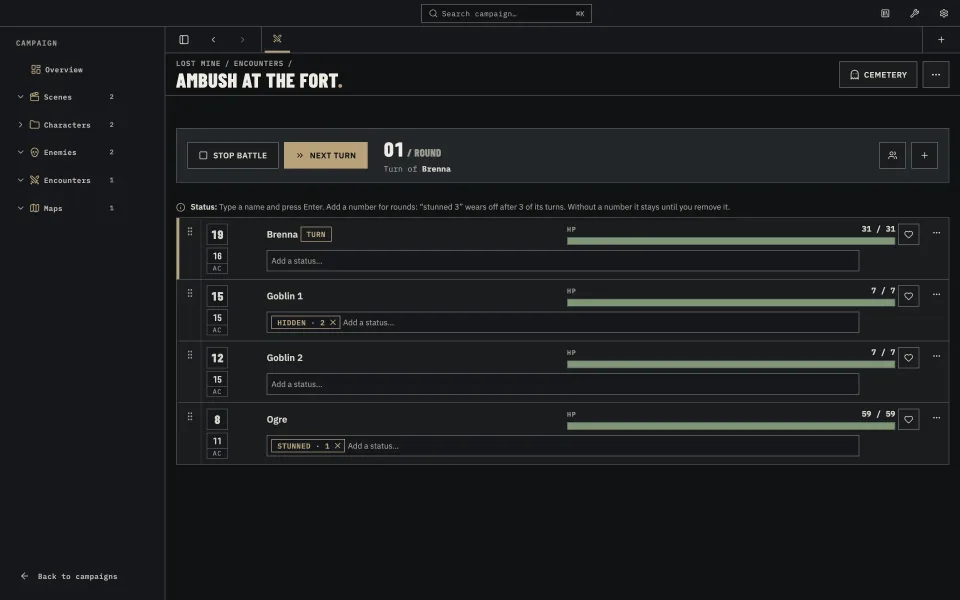
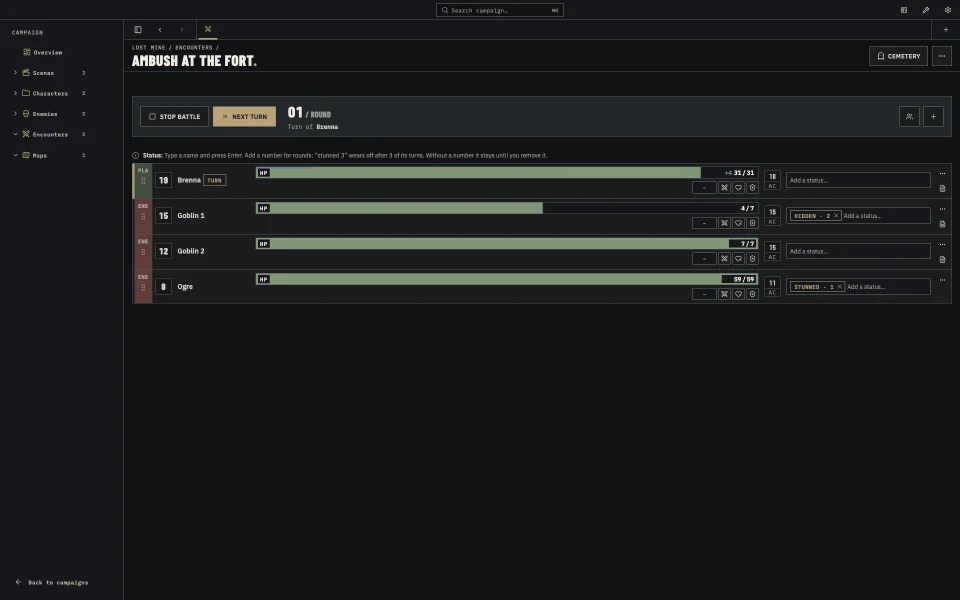
Tracker screenshots: new compact D&D 5e encounter view, richer alt text

diff --git a/site/index.html b/site/index.html
@@ -196,8 +196,8 @@
             <div class="shot-bar"><span class="shot-path">lost-mine / encounters / ambush.json</span><span class="bdg">Encounter</span></div>
             <div class="arc-ornament-rule" aria-hidden="true"><span>&#9671;</span><span>&#10019;</span><span>&#9671;</span></div>
             <div class="shot-media">
-              <img class="theme-light" src="assets/img/shots/tracker-light-960.webp" srcset="assets/img/shots/tracker-light-960.webp 960w, assets/img/shots/tracker-light.webp 1920w" sizes="(min-width: 900px) 36rem, 100vw" width="1920" height="1200" loading="lazy" decoding="async" alt="The LazyDM encounter page: a battle bar with round 01 and the turn of Brenna, then four combatants in initiative order with HP bars, AC and statuses." />
-              <img class="theme-dark" src="assets/img/shots/tracker-dark-960.webp" srcset="assets/img/shots/tracker-dark-960.webp 960w, assets/img/shots/tracker-dark.webp 1920w" sizes="(min-width: 900px) 36rem, 100vw" width="1920" height="1200" loading="lazy" decoding="async" alt="The LazyDM encounter page: a battle bar with round 01 and the turn of Brenna, then four combatants in initiative order with HP bars, AC and statuses." />
+              <img class="theme-light" src="assets/img/shots/tracker-light-960.webp" srcset="assets/img/shots/tracker-light-960.webp 960w, assets/img/shots/tracker-light.webp 1920w" sizes="(min-width: 900px) 36rem, 100vw" width="1920" height="1200" loading="lazy" decoding="async" alt="The LazyDM encounter page: a battle bar with round 01 and the turn of Brenna, then four compact combatant rows in initiative order, each with its side, an HP bar with damage, heal and temporary HP buttons, AC and statuses." />
+              <img class="theme-dark" src="assets/img/shots/tracker-dark-960.webp" srcset="assets/img/shots/tracker-dark-960.webp 960w, assets/img/shots/tracker-dark.webp 1920w" sizes="(min-width: 900px) 36rem, 100vw" width="1920" height="1200" loading="lazy" decoding="async" alt="The LazyDM encounter page: a battle bar with round 01 and the turn of Brenna, then four compact combatant rows in initiative order, each with its side, an HP bar with damage, heal and temporary HP buttons, AC and statuses." />
             </div>
           </div>
           <figcaption>During an encounter, the current round and active Combatant stay above the initiative order.</figcaption>
